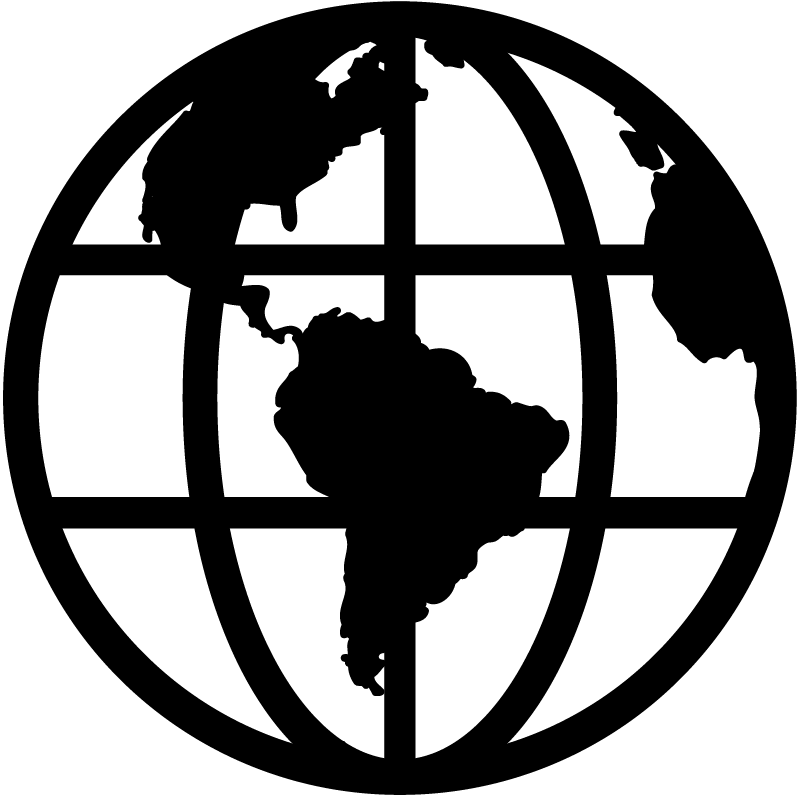
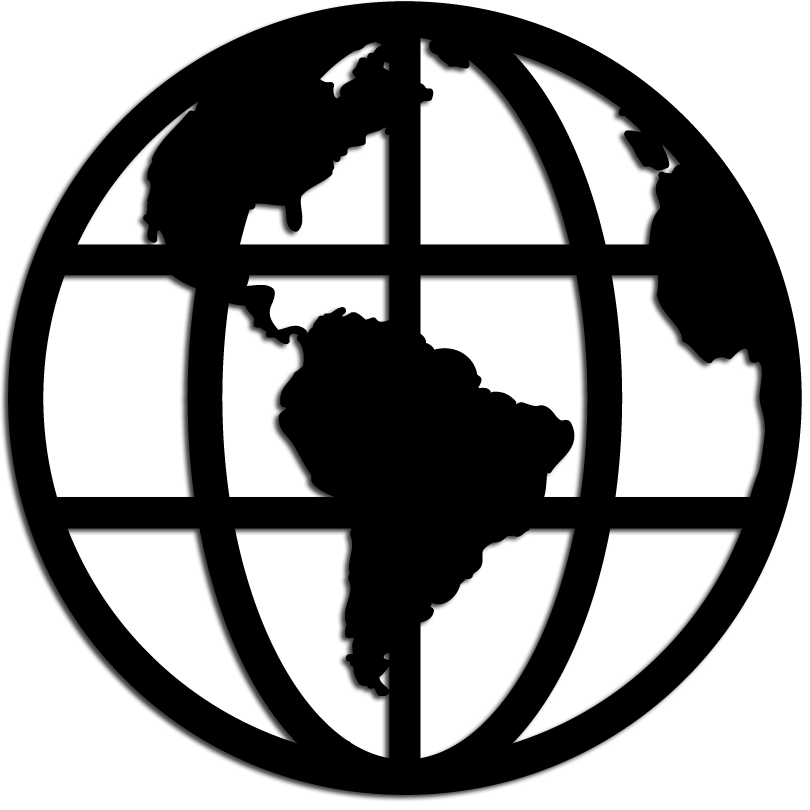
final stying for pane 1; awaiting image for pane 3

diff --git a/billDiffenderffer.css b/billDiffenderffer.css
@@ -18,7 +18,7 @@ body{
 #header{
     margin: 0 auto;
     display: inline-block;
-    background: url("/atom.png") no-repeat 50% center fixed;
+    background: url("/atom_black_blur.png") no-repeat 50% center fixed;
     background-size: 85%;
     -webkit-background-size: 85%;
     -moz-background-size: 85%;
@@ -27,7 +27,7 @@ body{
     min-height: 100%;
     height: auto;
     margin: 0 auto;
-    padding: 5% 0 0 0;
+    padding: 0;
     color: black;
     text-align: center;
     font-size: 50px;
@@ -74,11 +74,14 @@ h1, h2, h3, h4{
 }
 
 #bill_diff_title{
-    padding-top: 3%;
+    text-align: left;
+    padding-top: 2%;
+    padding-left: 2%;
 }
 
 .row{
     padding-bottom: 3%;
+    margin-left: 3%;
     margin-top: 3%;
 }
 
